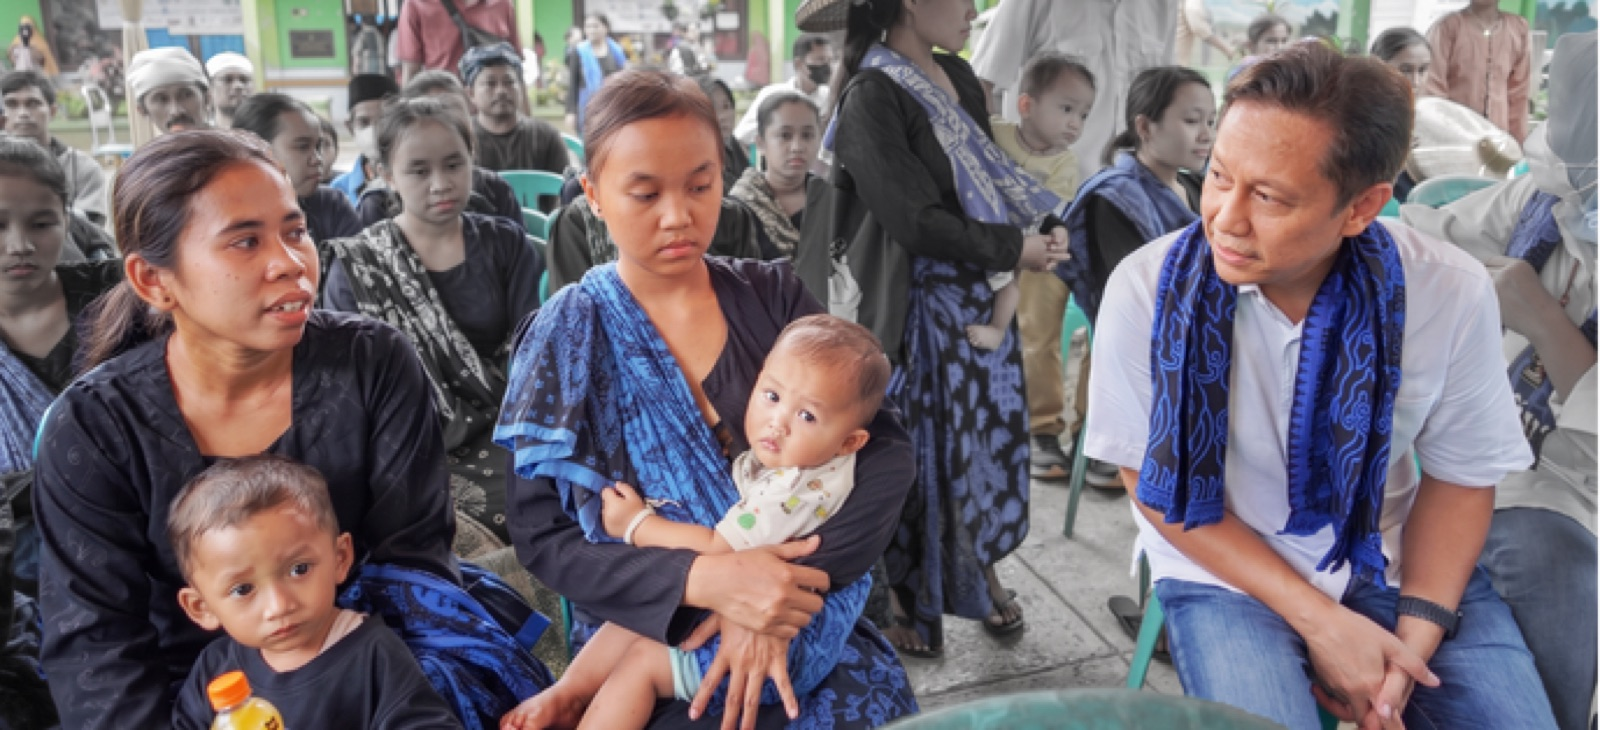
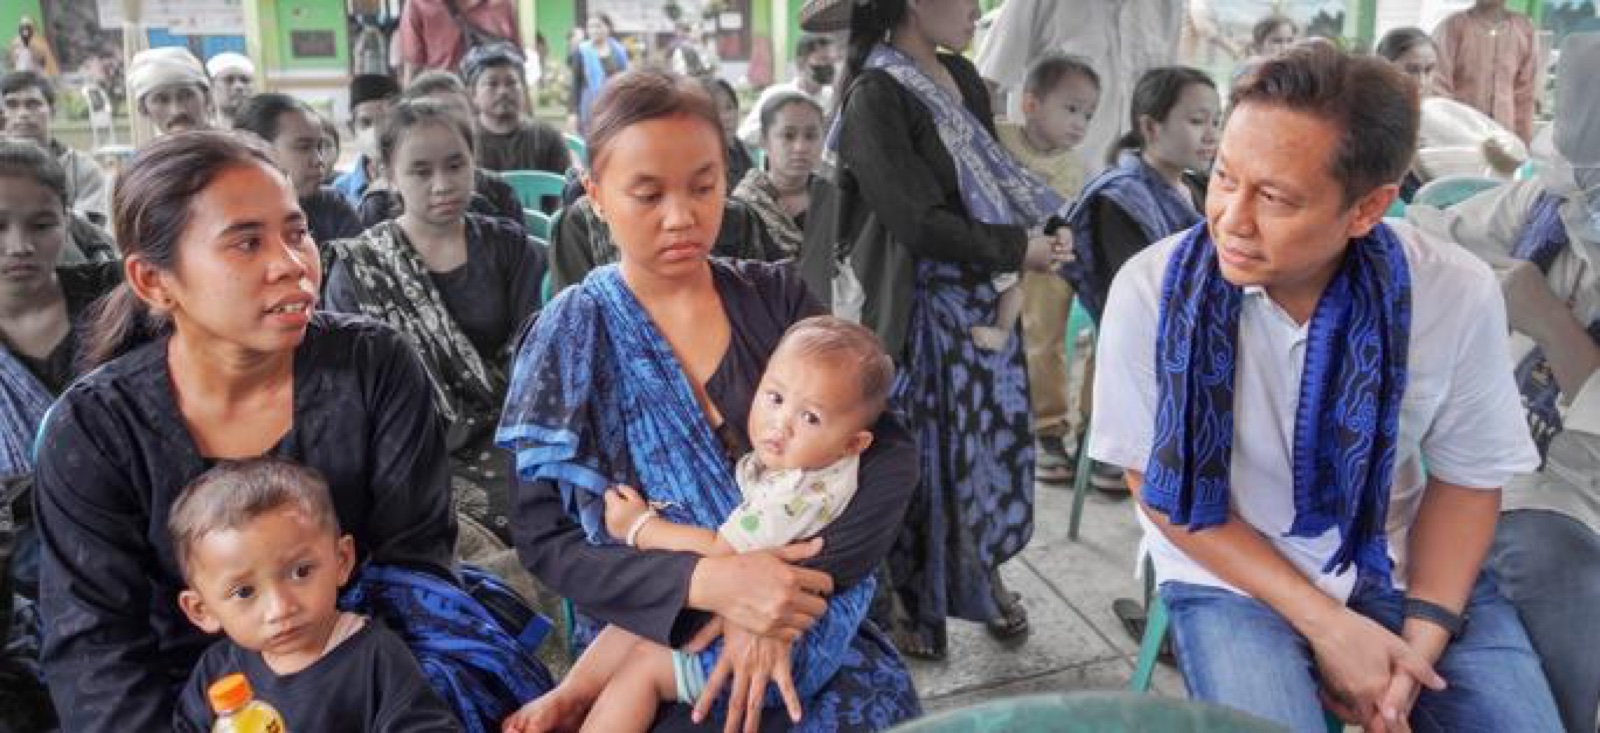
Move Trusted transformation title above photo and update Banten image

diff --git a/index.html b/index.html
@@ -37,7 +37,7 @@
     .stats{display:grid;grid-template-columns:repeat(4,1fr);border-block:1px solid var(--line);margin-top:54px}.stat{padding:30px 24px;border-right:1px solid var(--line)}.stat:last-child{border:0}.stat b{display:block;color:var(--blue);font-size:2.2rem;line-height:1.1}.stat span{color:var(--muted);font-size:.9rem}
     .vision{background:#f4f8fb}.pillars{margin-top:46px;background:var(--navy);display:grid;grid-template-columns:repeat(3,1fr)}.pillar{padding:46px 36px;border-left:1px solid rgba(255,255,255,.16)}.pillar:first-child{border-left:0}.pillar .num{display:block;font:700 .8rem/1 var(--display);letter-spacing:.16em;color:var(--gold);margin-bottom:20px}.pillar h3{font:700 1.42rem/1.2 var(--display);color:#fff;margin:0 0 .55em}.pillar p{color:#cfe0ec;margin:0 0 1.1em}.pillar ul{margin:0;padding-left:18px;color:#a9c6db;font-size:.94rem}
     .record-grid{display:grid;grid-template-columns:.8fr 1.2fr;gap:70px;align-items:start}.quote{background:var(--navy);color:white;padding:38px;border-radius:2px;position:sticky;top:100px}.quote p{font:700 1.7rem/1.35 var(--display);margin:0}.quote cite{display:block;margin-top:20px;color:#b8d8ea;font-style:normal}.timeline{border-left:2px solid var(--line);padding-left:32px}.item{margin:0 0 38px}.item small{color:var(--blue);font-weight:800;text-transform:uppercase;letter-spacing:.08em}.item h3{color:var(--navy);margin:.25rem 0;font-size:1.25rem}.item p{color:var(--muted);margin:.3rem 0}
-    .leadership{background:var(--navy);color:white}.leadership h2{color:white}.leadership .intro{color:#cfe0ec}.quality-visual{position:relative;margin:0 0 46px;border-radius:16px;overflow:hidden;box-shadow:0 24px 60px rgba(0,10,25,.45)}.quality-visual img{display:block;width:100%;height:auto}.quality-visual figcaption{position:absolute;left:18px;right:18px;bottom:16px;color:#fff}.quality-visual figcaption span{display:block;font-size:.7rem;text-transform:uppercase;letter-spacing:.14em;font-weight:800;color:#9fdcf5;margin-bottom:3px}.quality-visual figcaption b{font-weight:600;font-size:.95rem}.leadership-head{max-width:720px}.quality-block{margin-top:42px}.quality-kicker{font-size:.76rem;text-transform:uppercase;letter-spacing:.14em;font-weight:800;color:#8bd0ef;padding-bottom:16px;border-bottom:1px solid rgba(255,255,255,.20)}.quality-list{margin:0;padding:0}.quality{border-bottom:1px solid rgba(255,255,255,.16)}.quality:last-child{border-bottom:0}.quality summary{display:grid;grid-template-columns:54px 1fr 30px;gap:22px;align-items:center;padding:24px 0;cursor:pointer;list-style:none}.quality summary::-webkit-details-marker{display:none}.quality summary::marker{content:""}.quality-num{font:700 1.55rem/1 var(--display);color:#8bd0ef;opacity:.9;letter-spacing:-.02em}.quality-title{color:var(--gold);font-size:1.28rem;font-weight:700}.quality-icon{justify-self:end;width:30px;height:30px;border-radius:50%;border:1px solid rgba(255,255,255,.3);display:grid;place-items:center;color:#8bd0ef;font-weight:700}.quality-icon::before{content:"+"}.quality[open] .quality-icon::before{content:"\2212"}.quality p{margin:0;padding:0 0 26px 76px;color:#d6e4ed;font-size:.97rem}.quality[open] summary{padding-bottom:12px}@media(max-width:700px){.quality summary{grid-template-columns:40px 1fr 28px;gap:14px}.quality p{padding-left:54px}}
+    .leadership{background:var(--navy);color:white}.leadership h2{color:white}.leadership .intro{color:#cfe0ec}.leadership-eyebrow{display:block;margin:0 0 18px}.quality-visual{position:relative;margin:0 0 46px;border-radius:16px;overflow:hidden;box-shadow:0 24px 60px rgba(0,10,25,.45)}.quality-visual img{display:block;width:100%;height:auto}.quality-visual figcaption{position:absolute;left:18px;right:18px;bottom:16px;color:#fff}.quality-visual figcaption span{display:block;font-size:.7rem;text-transform:uppercase;letter-spacing:.14em;font-weight:800;color:#9fdcf5;margin-bottom:3px}.quality-visual figcaption b{font-weight:600;font-size:.95rem}.leadership-head{max-width:720px}.quality-block{margin-top:42px}.quality-kicker{font-size:.76rem;text-transform:uppercase;letter-spacing:.14em;font-weight:800;color:#8bd0ef;padding-bottom:16px;border-bottom:1px solid rgba(255,255,255,.20)}.quality-list{margin:0;padding:0}.quality{border-bottom:1px solid rgba(255,255,255,.16)}.quality:last-child{border-bottom:0}.quality summary{display:grid;grid-template-columns:54px 1fr 30px;gap:22px;align-items:center;padding:24px 0;cursor:pointer;list-style:none}.quality summary::-webkit-details-marker{display:none}.quality summary::marker{content:""}.quality-num{font:700 1.55rem/1 var(--display);color:#8bd0ef;opacity:.9;letter-spacing:-.02em}.quality-title{color:var(--gold);font-size:1.28rem;font-weight:700}.quality-icon{justify-self:end;width:30px;height:30px;border-radius:50%;border:1px solid rgba(255,255,255,.3);display:grid;place-items:center;color:#8bd0ef;font-weight:700}.quality-icon::before{content:"+"}.quality[open] .quality-icon::before{content:"\2212"}.quality p{margin:0;padding:0 0 26px 76px;color:#d6e4ed;font-size:.97rem}.quality[open] summary{padding-bottom:12px}@media(max-width:700px){.quality summary{grid-template-columns:40px 1fr 28px;gap:14px}.quality p{padding-left:54px}}
     .voices{display:grid;grid-template-columns:1fr 1fr;gap:26px;margin-top:40px}.voice{border:1px solid var(--line);padding:34px}.voice p{font:1.15rem/1.6 var(--display);color:#324458}.voice b{display:block;color:var(--navy)}.voice span{font-size:.86rem;color:var(--muted)}
     .human{background:linear-gradient(90deg,rgba(2,38,72,.96),rgba(2,38,72,.6)),url('assets/walk-the-talk-25.jpg') center/cover;color:white}.human h2{color:white}.human p{max-width:650px;font-size:1.15rem;color:#e3edf4}
     .cv{display:grid;grid-template-columns:1fr 1fr;gap:0 60px;margin-top:40px;align-items:start}.cv-col>h3:first-child{margin-top:0}.cv h3{color:var(--navy);border-bottom:1px solid var(--line);padding-bottom:8px}.cv p{color:var(--muted)}.cv b{color:var(--ink)}
@@ -74,12 +74,12 @@
     <article class="item"><small>Emergency response</small><h3>Restore essential services fast</h3><p>All 87 hospitals affected by the 2025 Sumatra floods were restored within two weeks. After the 2026 East Nusa Tenggara earthquake, two field hospitals were operational within four days.</p></article>
   </div></div></div></section>
   <section class="leadership"><div class="wrap">
+    <div class="eyebrow leadership-eyebrow" style="color:#8bd0ef">Trusted transformation</div>
     <figure class="quality-visual">
       <img src="assets/leadership-banten.jpg" alt="Budi Gunadi Sadikin sitting with mothers and children during a community visit in Banten, October 2021" loading="lazy">
       <figcaption><span>In the field</span><b>Banten, October 2021</b></figcaption>
     </figure>
     <div class="leadership-head">
-      <div class="eyebrow" style="color:#8bd0ef">Trusted transformation</div>
       <h2>Four qualities for the next WHO.</h2>
       <p class="intro">Experience spanning national reform, multilateral diplomacy, finance, technology and large-scale institutional leadership.</p>
     </div>
